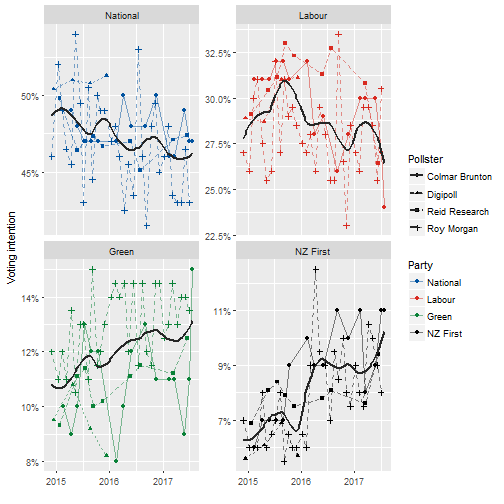
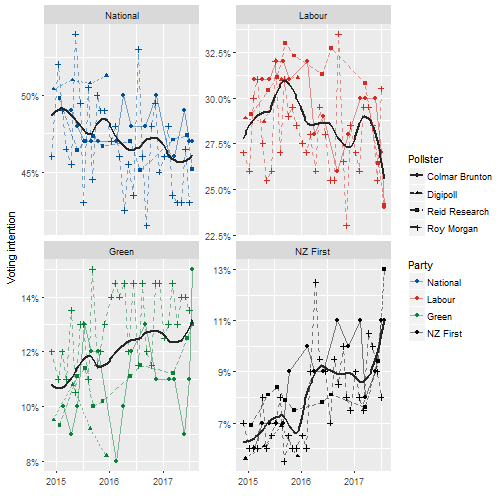
minor tweak that someone added TOP and conservative to Wikipedia for the last reid research poll

diff --git a/README.md b/README.md
@@ -316,16 +316,16 @@ polls %>%
 ## # A tibble: 10 x 5
 ##            Party pundit_perc curia_perc pundit_seats curia_seats
 ##            <chr>       <dbl>      <dbl>        <dbl>       <dbl>
-##  1           ACT         0.6        0.4            1           1
-##  2  Conservative         0.2        0.1            0           0
-##  3         Green        13.4       13.9           16          17
-##  4        Labour        26.5       25.9           32          31
-##  5          Mana         0.2        0.2            0           0
-##  6         Maori         1.2        1.3            1           2
-##  7      National        46.3       46.2           56          56
-##  8      NZ First        10.1       10.4           12          12
-##  9           TOP         1.6        1.8            2           2
-## 10 United Future         0.1        0.1            0           0
+##  1           ACT         0.5        0.4            1           1
+##  2  Conservative         0.1        0.0            0           0
+##  3         Green        13.3       13.9           16          17
+##  4        Labour        25.8       24.2           31          29
+##  5          Mana         0.1        0.0            0           0
+##  6         Maori         1.1        0.9            1           1
+##  7      National        46.0       46.1           56          56
+##  8      NZ First        10.9       11.9           13          15
+##  9           TOP         1.5        1.7            2           2
+## 10 United Future         0.1        0.2            0           0
 ```
 
 
